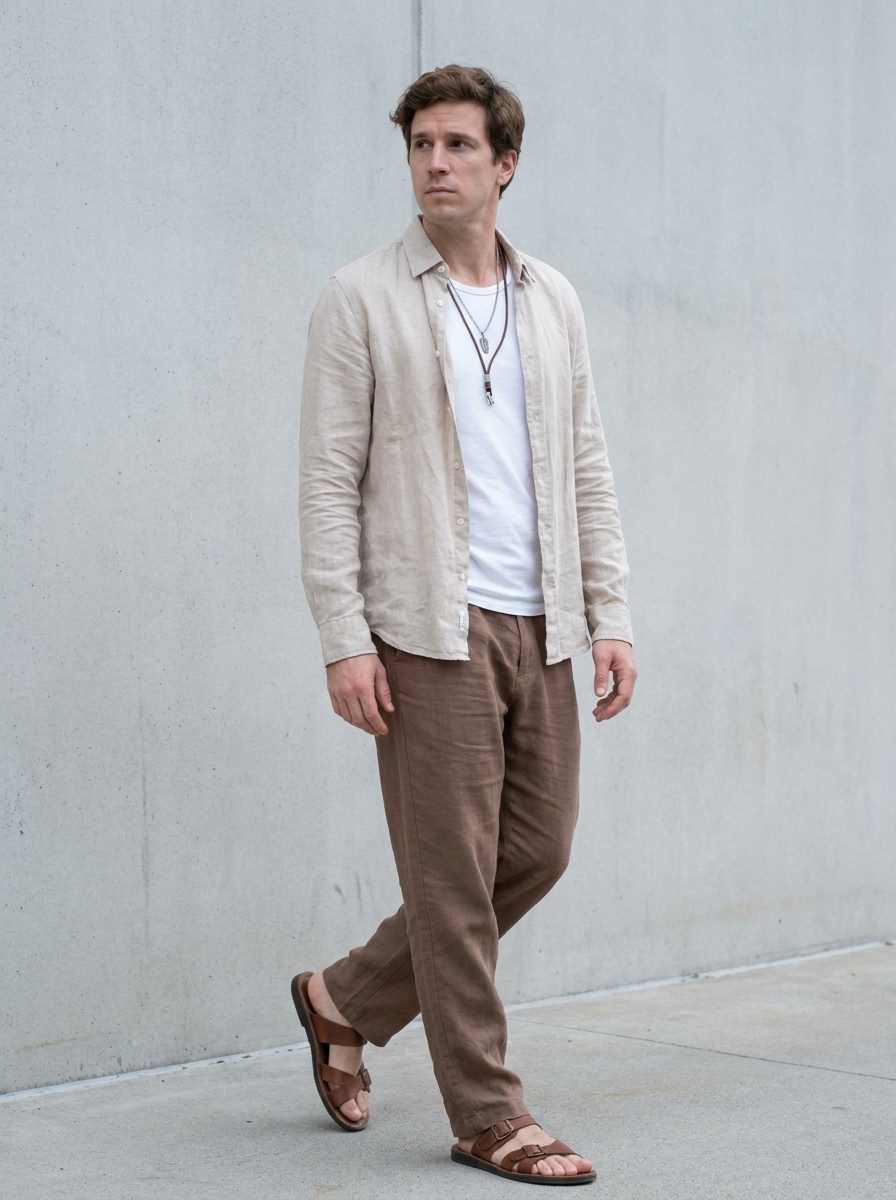
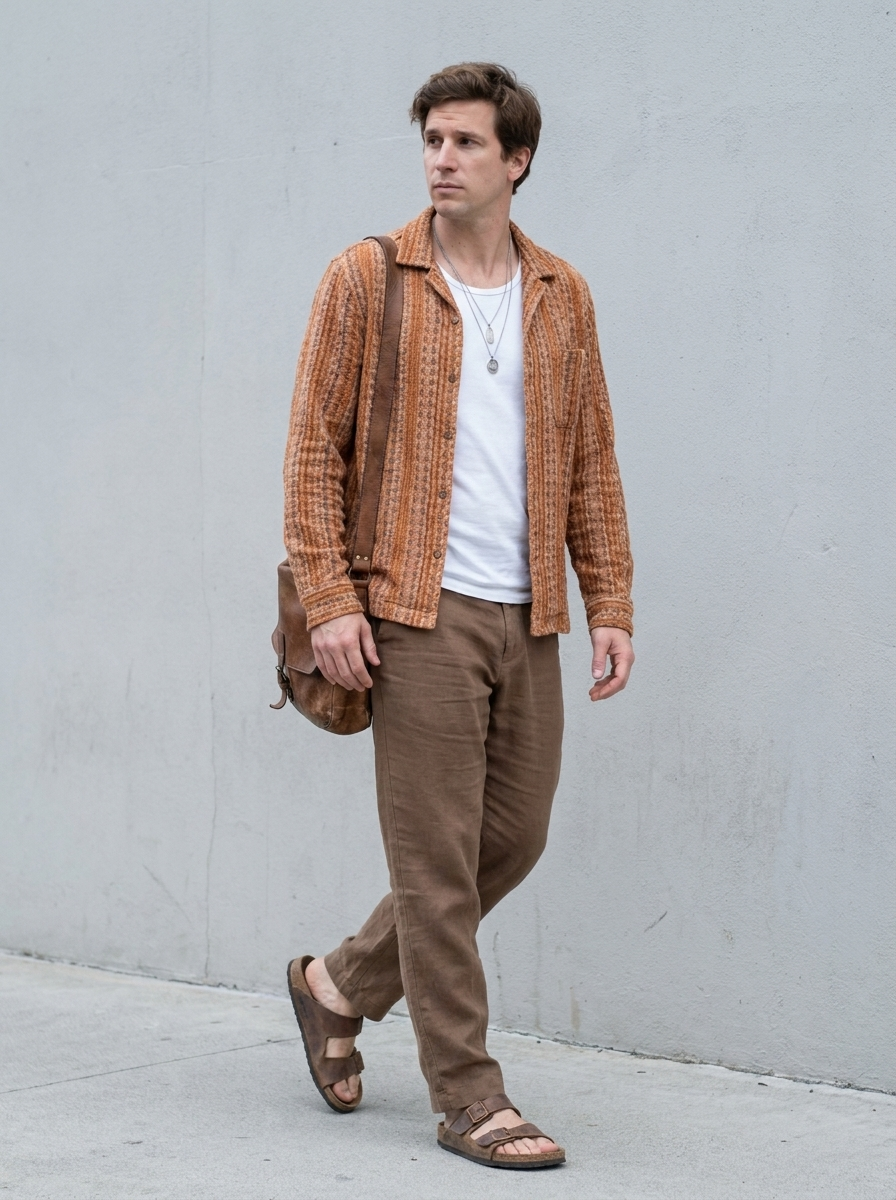
fix(swipe): romántico/boho/coastal hombre ya no son triates (v0.2.8.2)
Los tres habían convergido a la misma fórmula (camisa clara abierta
sobre tee + pantalón de lino, mismo modelo) — indistinguibles en un
swipe de 2 segundos, tags vueltos ruido. Cada carta es dueña de una
fórmula: romántico = knit rosa pastel pulcro (sin camisa abierta, sin
lino); boho = camisa ESTAMPADA con textura + collares en capas +
sandalias (el print es el statement); coastal conserva el lino-sobre-
lino crudo sin cambios.

diff --git a/CHANGELOG.md b/CHANGELOG.md
@@ -2,6 +2,12 @@
 
 Cambios notables de stailist. Formato basado en [Keep a Changelog](https://keepachangelog.com/es/); versiones `MAJOR.MINOR.PATCH.MICRO`.
 
+## [0.2.8.2] - 2026-07-22
+
+### Fixed
+
+- En el deck de hombre, **Romántico, Boho y Coastal se veían casi iguales** (los tres eran camisa clara abierta + pantalón de lino). Ahora cada uno cuenta lo suyo: Romántico es knit rosa suave y pulcro, Boho es camisa estampada con collares y sandalias, y Coastal conserva su lino crudo total.
+
 ## [0.2.8.1] - 2026-07-22
 
 ### Fixed
